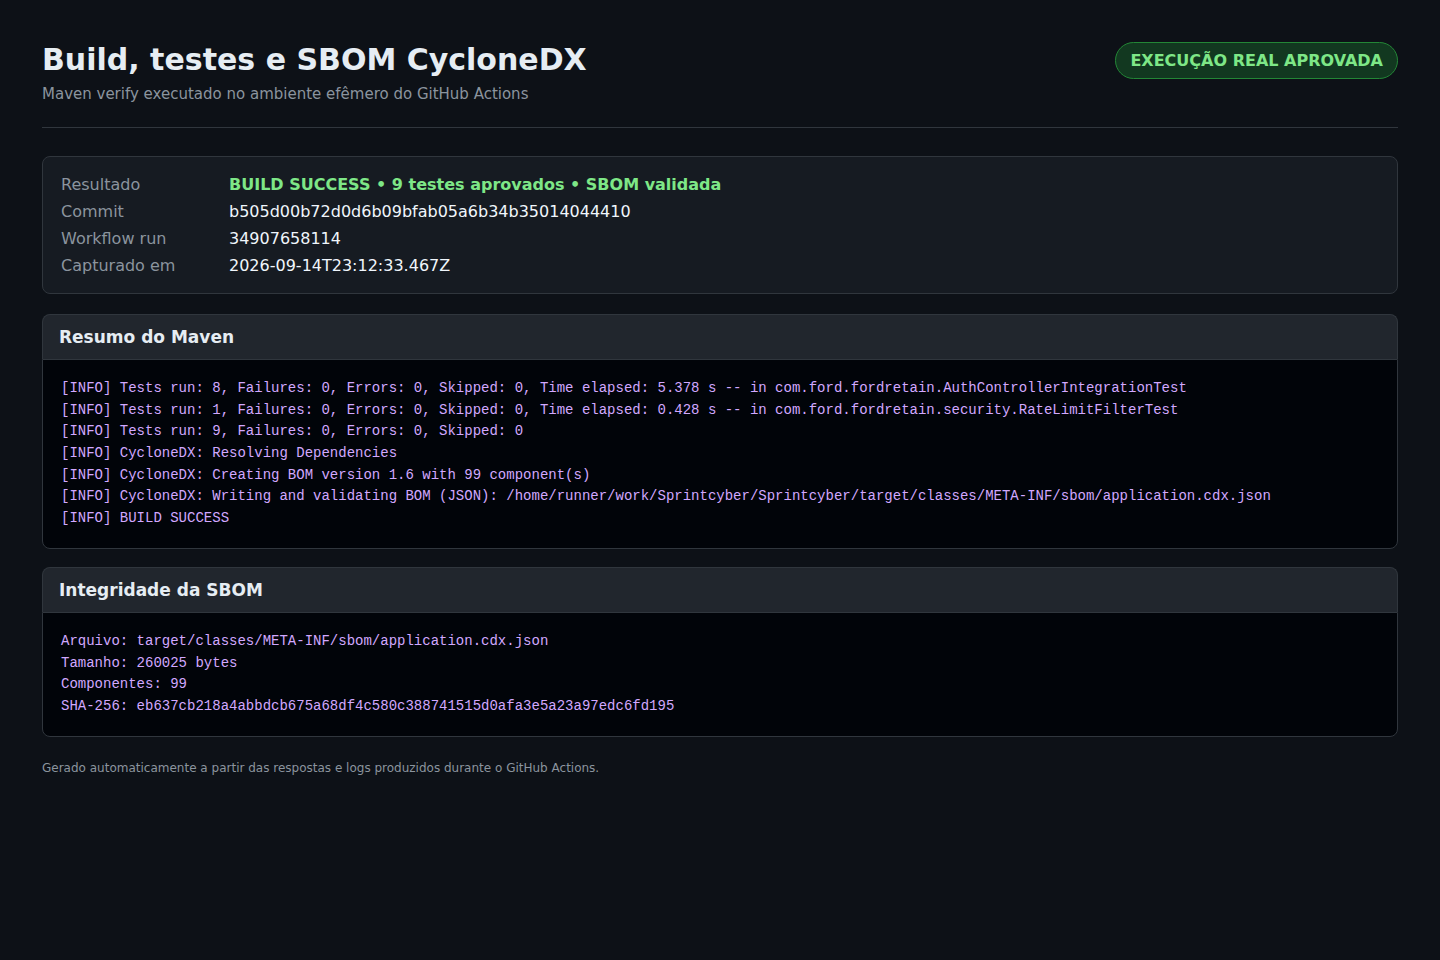
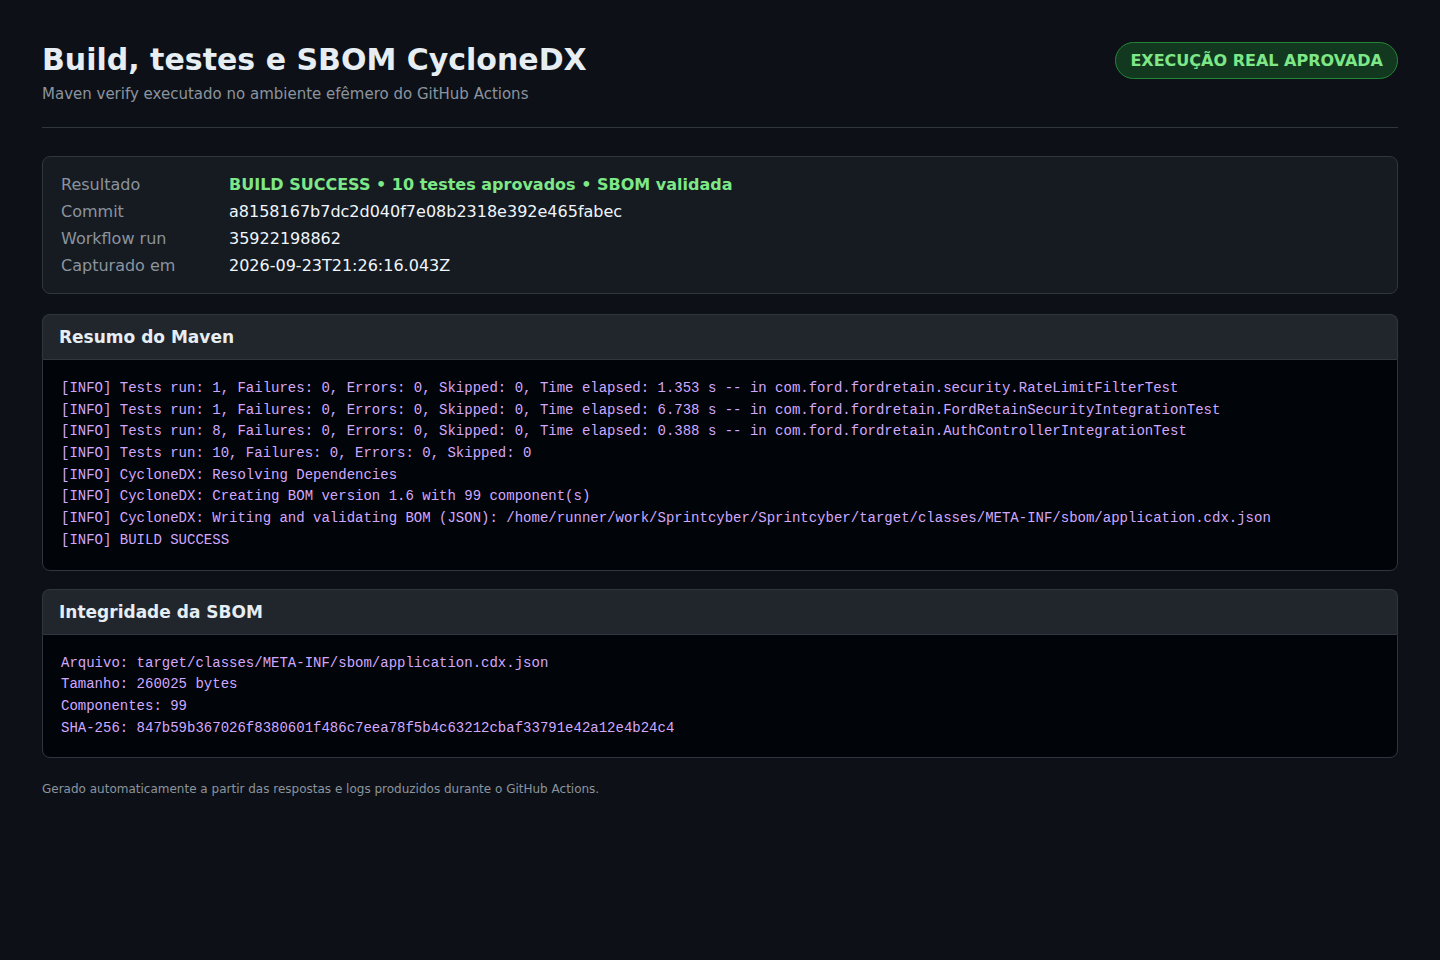
docs: consolidate Sprint 3 report and verified runtime evidence

Changed region(s): [[0.0312, 0.4375, 0.9688, 0.8438], [0.1562, 0.1875, 0.5, 0.2812], [0.5312, 0.375, 0.8438, 0.4688]]

diff --git a/docs/RELATORIO_FINAL_SPRINT3.md b/docs/RELATORIO_FINAL_SPRINT3.md
@@ -6,6 +6,8 @@ A Sprint 3 evolui o FordRetain para um fluxo DevSecOps verificável. O repositó
 
 O resultado combina implementação executável, testes automatizados, documentação técnica e evidências reais. Os itens que dependem de módulos externos, como aplicativo mobile, IoT e modelo de machine learning, são tratados como requisitos de integração e não como funcionalidades já implementadas nesta API.
 
+Nesta revisão, a API FordRetain original foi integrada ao projeto de segurança: predição demonstrativa por regras, clientes, leads e dashboard operam sobre H2 no perfil local. O telefone é criptografado antes da persistência. Oracle permanece configurado para a implantação, mas não foi testado sem credenciais e infraestrutura da organização.
+
 ![Rubrica da Sprint 3](assets/rubrica-sprint3-cybersecurity.jpg)
 
 ## 2. Entregas por bloco da rubrica
@@ -33,7 +35,7 @@ As evidências adicionadas ao repositório comprovam:
 - logs JSON sanitizados com request ID;
 - RBAC retornando HTTP 403 e rate limit retornando HTTP 429 com `Retry-After`.
 
-Os arquivos estão catalogados em [`evidencias/README.md`](../evidencias/README.md). As capturas do pipeline correspondem à PR #22 / Security Pipeline / run #42; as evidências reproduzíveis de runtime correspondem à Runtime Evidence / run #6. Tokens apresentados nos prints são de demonstração local e já expirados; nenhuma credencial de produção foi incluída.
+Os arquivos estão catalogados em [`evidencias/README.md`](../evidencias/README.md). A integração passou na [Security Pipeline da PR #25](https://github.com/Luiza122/Sprintcyber/actions/runs/35922204237) e as evidências de runtime atualizadas vieram da [run 35922198862](https://github.com/Luiza122/Sprintcyber/actions/runs/35922198862). O print `09` é da interface real do Grafana; os demais relatórios de runtime são renderizados dos logs e respostas reais, disponíveis no artefato da run. Tokens apresentados nos prints anteriores são de demonstração local e já expirados; nenhuma credencial de produção foi incluída.
 
 ## 4. Testes automatizados
 
@@ -50,6 +52,7 @@ O build executa testes de integração e unidade para os controles críticos:
 | token inválido | HTTP 401 |
 | coleta Prometheus | HTTP 200 |
 | excesso de tentativas | HTTP 429 e `Retry-After` |
+| fluxo FordRetain | predição, consultas, atualização e exclusão autorizadas, telefone cifrado no banco |
 
 O perfil `local` usa H2 em memória e permite executar a demonstração sem uma instância Oracle. O perfil padrão continua preparado para receber conexão e secrets externos em ambientes controlados.
 
@@ -57,11 +60,11 @@ O perfil `local` usa H2 em memória e permite executar a demonstração sem uma 
 
 | Componente | Cobertura atual | Controle de segurança |
 |---|---|---|
-| API Java | implementado neste repositório | JWT, RBAC, validação, rate limit, criptografia, logs e métricas |
+| API Java | endpoints funcionais integrados e testados em H2 | JWT, RBAC, validação, rate limit, criptografia, logs e métricas |
 | Dados Oracle | configuração de integração | credenciais externas, acesso mínimo, criptografia e backup operacional |
 | Mobile | repositório externo | armazenamento seguro, proteção de token, certificate pinning quando aplicável e telemetria |
 | IoT | não presente neste código | MQTT sobre TLS, identidade por dispositivo, autorização por tópico e rotação de certificados |
-| Machine learning | não presente neste código | controle de acesso ao modelo, versionamento, integridade, drift e monitoramento de inferência |
+| Machine learning | predição por regras demonstrativas, sem modelo treinado | futuro controle de acesso ao modelo, versionamento, integridade, drift e monitoramento de inferência |
 
 Essa separação evita afirmar como concluído um controle que não pode ser demonstrado neste repositório, sem deixar de registrar o desenho necessário para a solução integrada.
 
@@ -73,13 +76,14 @@ Essa separação evita afirmar como concluído um controle que não pode ser dem
 - Testes ampliados para autenticação, validação, JWT, RBAC, Prometheus e rate limiting.
 - Evidências renomeadas de forma descritiva e vinculadas à rubrica.
 - Contexto de ativos, continuidade, ISO 27001, NIST CSF e Red/Blue Team incorporado ao documento consolidado.
+- API funcional original integrada; teste de fluxo e persistência criptografada incluído no pipeline.
 
 ## 7. Evidências de execução anexadas
 
 O conjunto visual da entrega está completo e inclui:
 
 1. GitHub Actions com todos os jobs e o gate final aprovados;
-2. build, nove testes e SBOM CycloneDX;
+2. build, dez testes e SBOM CycloneDX;
 3. CodeQL, Trivy SCA, Gitleaks, Trivy IaC e Trivy Container;
 4. target do Prometheus em estado `UP` e regras de alerta carregadas;
 5. dashboard Grafana com os valores coletados;

diff --git a/docs/SPRINT3_CYBERSECURITY.md b/docs/SPRINT3_CYBERSECURITY.md
@@ -21,6 +21,8 @@ A Sprint 3 evolui a segurança do FordRetain para um modelo **DevSecOps**, em qu
 
 O projeto completo envolve API, dados, aplicativo mobile e modelos de machine learning. Este repositório implementa e comprova a camada da API Java, do pipeline, do container, do Kubernetes e da observabilidade. Os controles para mobile, IoT e ML são registrados como requisitos de integração, sem serem apresentados como código executável inexistente.
 
+A API funcional original FordRetain foi integrada aos controles da Sprint: predição demonstrativa, clientes, leads e dashboard, com persistência H2 no perfil local e configuração Oracle no perfil padrão. A predição usa regras, não um modelo de machine learning treinado. A execução Oracle e os módulos mobile e IoT exigem validação separada em seus próprios ambientes.
+
 Ativos críticos considerados na análise:
 
 | Ativo | Risco principal | Proteção prevista |
@@ -138,7 +140,7 @@ CRYPTO_SECRET
 CRYPTO_SALT
 ```
 
-Evidência: `src/main/java/com/ford/fordretain/security/CryptoUtils.java`.
+Evidências: `src/main/java/com/ford/fordretain/security/CryptoUtils.java`, `dao/impl/ClienteDAOImpl.java` e `FordRetainSecurityIntegrationTest.java`. O telefone é cifrado antes de gravar, decifrado nas leituras autorizadas e o teste confere o valor armazenado no banco.
 
 ## 2.2 JWT seguro
 
@@ -290,12 +292,13 @@ Esses controles permanecem como critérios de aceite do futuro módulo IoT.
 
 ## 2.11 Testes automatizados de segurança
 
-O build executa testes que verificam login válido, credencial inválida, validação de entrada, ausência de token, token inválido, separação de perfis, coleta Prometheus e rate limiting. O teste de RBAC comprova que `ANALISTA` recebe HTTP 403 na rota administrativa de métricas, enquanto `ADMIN` recebe HTTP 200.
+O build executa dez testes que verificam login válido, credencial inválida, validação de entrada, ausência de token, token inválido, separação de perfis, coleta Prometheus, rate limiting e o fluxo funcional de predição, persistência, consultas, atualização, exclusão e criptografia. O teste de RBAC comprova que `ANALISTA` recebe HTTP 403 na rota administrativa de métricas, enquanto `ADMIN` recebe HTTP 200.
 
 Evidências:
 
 - `src/test/java/com/ford/fordretain/AuthControllerIntegrationTest.java`;
 - `src/test/java/com/ford/fordretain/security/RateLimitFilterTest.java`;
+- `src/test/java/com/ford/fordretain/FordRetainSecurityIntegrationTest.java`;
 - `evidencias/20-maven-test-build-success.png`.
 
 ## Evidências desta atividade
@@ -668,7 +671,7 @@ Os testes devem ocorrer apenas em ambiente autorizado e isolado. Os achados alim
 - [x] regras de alertas
 - [x] dashboard Grafana provisionado
 - [x] fluxo detecção → análise → contenção → erradicação → recuperação
-- [x] prints reais de Grafana, Prometheus e logs anexados a partir da Runtime Evidence / run #6
+- [x] screenshot real do Grafana e relatórios verificáveis de Prometheus e logs anexados a partir da Runtime Evidence / run 35922198862
 
 ## Compliance e segurança contínua
 
@@ -696,7 +699,7 @@ O roteiro de captura está em:
 
 `evidencias/README.md`
 
-As evidências `01` a `08` foram capturadas do Security Pipeline da PR #22 / run #42. As evidências `02` e `09` a `14` são reproduzíveis pelo workflow Runtime Evidence e foram geradas na run #6. Os arquivos `15` a `20` registram os testes locais anteriores pelo Swagger e Maven.
+As evidências `01` e `03` a `08` registram uma execução anterior aprovada do Security Pipeline. A PR #25 passou novamente nos sete jobs na [run 35922204237](https://github.com/Luiza122/Sprintcyber/actions/runs/35922204237). As evidências `02` e `09` a `14` são reproduzíveis pelo workflow Runtime Evidence e foram atualizadas na [run 35922198862](https://github.com/Luiza122/Sprintcyber/actions/runs/35922198862). O arquivo `09` é screenshot direto do Grafana; `02` e `10` a `14` são relatórios visuais gerados dos logs e respostas reais, cujos dados brutos estão no artefato. Os arquivos `15` a `20` registram os testes locais anteriores pelo Swagger e Maven.
 
 Nenhuma evidência deve exibir credenciais, JWT completo, secrets ou dados pessoais reais.
 

diff --git a/evidencias/README.md b/evidencias/README.md
@@ -8,14 +8,14 @@ Esta pasta é reservada para **evidências reais de execução**. Não inserir p
 |---|---|---|
 | `00-estrutura-projeto.png` | organização das pastas e artefatos | disponível |
 | `01-pipeline-geral.jpg` | execução completa do Security Pipeline aprovada | disponível |
-| `02-build-testes-sbom.png` | build, 9 testes e SBOM CycloneDX gerada | disponível |
+| `02-build-testes-sbom.png` | build, 10 testes e SBOM CycloneDX gerada | disponível |
 | `03-codeql-sast.jpg` | análise SAST com CodeQL aprovada | disponível |
 | `04-trivy-sca.jpg` | análise SCA com Trivy aprovada | disponível |
 | `05-gitleaks-secret-scanning.jpg` | secret scanning com Gitleaks aprovado | disponível |
 | `06-trivy-iac.jpg` | análise IaC com Trivy Config aprovada | disponível |
 | `07-trivy-container.jpg` | análise da imagem com Trivy aprovada | disponível |
 | `08-security-gate.jpg` | gate final para deploy aprovado | disponível |
-| `09-grafana-dashboard.png` | dashboard provisionado no Grafana com dados reais | disponível |
+| `09-grafana-dashboard.png` | screenshot direto da interface Grafana provisionada | disponível |
 | `10-prometheus-target.png` | target da API em estado `UP` | disponível |
 | `11-prometheus-alertas.png` | quatro regras de alerta carregadas | disponível |
 | `12-log-json-auditoria.png` | logs JSON sanitizados com request ID | disponível |
@@ -28,12 +28,13 @@ Esta pasta é reservada para **evidências reais de execução**. Não inserir p
 | `19-swagger-validacao-400.png` | validação de entrada retornando HTTP 400 | disponível |
 | `20-maven-test-build-success.png` | teste Maven e build concluídos com sucesso | disponível |
 
-Os arquivos `01` a `14` foram gerados ou capturados a partir de execuções reais. O workflow
+Os arquivos `01` a `14` foram gerados ou capturados a partir de execuções reais. O arquivo `09` é uma captura direta do navegador no Grafana; `02` e `10` a `14` são relatórios visuais gerados automaticamente a partir de logs e respostas HTTP da execução, com os dados brutos no artefato do Actions. O workflow
 `.github/workflows/runtime-evidence.yml` reproduz automaticamente as evidências `02` e `09` a `14`,
 mantendo os resultados vinculados ao commit e ao número da execução do GitHub Actions.
 
 - Pipeline e scanners: [PR #22 — Security Pipeline, run #42](https://github.com/Luiza122/Sprintcyber/actions/runs/34908099517).
-- API, monitoramento e testes HTTP: [Runtime Evidence, run #6](https://github.com/Luiza122/Sprintcyber/actions/runs/34907658114).
+- API, monitoramento e testes HTTP: [Runtime Evidence da integração, run 35922198862](https://github.com/Luiza122/Sprintcyber/actions/runs/35922198862), com dashboard final e dados brutos anexados.
+- Validação do código e security gate: [Security Pipeline da PR #25, run 35922204237](https://github.com/Luiza122/Sprintcyber/actions/runs/35922204237).
 
 Os JWTs visíveis nos registros do Swagger pertencem à demonstração local e possuem expiração curta. Em novas capturas, oculte o valor completo do token e mantenha apenas o início necessário para comprovar que ele foi emitido.
 
@@ -63,7 +64,7 @@ Use os seguintes nomes para facilitar a correção:
 ### 1. Pipeline DevSecOps
 
 - [x] **01-pipeline-geral.jpg** — tela do GitHub Actions mostrando todos os jobs da execução.
-- [x] **02-build-testes-sbom.png** — build, 9 testes e artefato CycloneDX validados.
+- [x] **02-build-testes-sbom.png** — build, 10 testes e artefato CycloneDX validados.
 - [x] **03-codeql-sast.jpg** — job `SAST - CodeQL` concluído.
 - [x] **04-trivy-sca.jpg** — relatório/gate SCA do Trivy.
 - [x] **05-gitleaks-secret-scanning.jpg** — Gitleaks concluído sem segredo versionado.

diff --git a/README.md b/README.md
@@ -59,8 +59,12 @@ flowchart LR
 │   ├── prometheus/
 │   └── grafana/
 ├── src/main/java/com/ford/fordretain/
+│   ├── config/             # DataSource e Swagger
 │   ├── controller/
+│   ├── dao/                # persistência de clientes, leads e predições
 │   ├── dto/
+│   ├── model/
+│   ├── service/            # predição demonstrativa baseada em regras
 │   └── security/
 ├── src/main/resources/
 ├── src/test/java/
@@ -131,12 +135,26 @@ O projeto agora possui testes de integração e unidade para:
 - token inválido com HTTP 401;
 - endpoint Prometheus disponível para coleta;
 - rate limiting retornando HTTP 429 e `Retry-After`.
+- fluxo funcional de predição, persistência, consultas, dashboard, atualização e exclusão, com verificação de telefone criptografado no banco H2.
 
 Execute com:
 
 ```bash
 mvn clean verify
 ```
+
+### API funcional integrada
+
+Os endpoints `/api/v1/predict`, `/api/v1/clientes`, `/api/v1/leads` e `/api/v1/dashboard` foram integrados à API original FordRetain. O telefone do cliente é protegido com AES-GCM antes da gravação e é recuperado apenas pela aplicação. O perfil `local` usa H2 para demonstração; o perfil padrão usa Oracle com credenciais externas. A pontuação da predição segue regras de demonstração da API original: **não representa um modelo de ML treinado**.
+
+```bash
+export JWT_SECRET='chave-local-de-teste-com-pelo-menos-64-caracteres-para-assinatura-hs512-12345'
+export CRYPTO_SECRET='segredo-local-de-teste'
+export CRYPTO_SALT='salt-local-de-teste'
+SPRING_PROFILES_ACTIVE=local mvn spring-boot:run
+```
+
+Use apenas credenciais de teste nesse perfil. A documentação interativa fica em `http://localhost:8080/swagger-ui.html`.
 
 ## 6. Infraestrutura segura
 
@@ -246,7 +264,7 @@ Da mesma forma, controles específicos do aplicativo mobile e do modelo de ML de
 
 Não são usados prints fabricados. A pasta `evidencias/` contém o conjunto completo de registros reais da execução: pipeline e security gate, CodeQL, Trivy SCA/IaC/Container, Gitleaks, SBOM CycloneDX, Prometheus, dashboard Grafana, alertas, log JSON, RBAC com HTTP 403 e rate limit com HTTP 429. Também permanecem disponíveis as capturas locais de build, validação e login pelo Swagger.
 
-As capturas do pipeline correspondem à [PR #22 — Security Pipeline, run #42](https://github.com/Luiza122/Sprintcyber/actions/runs/34908099517). As evidências de observabilidade e dos testes HTTP foram produzidas pela [Runtime Evidence, run #6](https://github.com/Luiza122/Sprintcyber/actions/runs/34907658114), com os dados brutos publicados como artefato da execução.
+O pipeline integrado passou com os sete jobs na [execução de segurança da PR #25](https://github.com/Luiza122/Sprintcyber/actions/runs/35922204237). O [workflow de runtime](https://github.com/Luiza122/Sprintcyber/actions/runs/35922198862) publicou as evidências atualizadas e os dados brutos: `09` é um screenshot direto do Grafana; `02` e `10` a `14` são relatórios visuais fiéis aos logs e respostas HTTP da execução. As imagens `01` e `03` a `08` registram a execução anterior, também aprovada, do pipeline.
 
 O roteiro exato está em [`evidencias/README.md`](evidencias/README.md).
 
